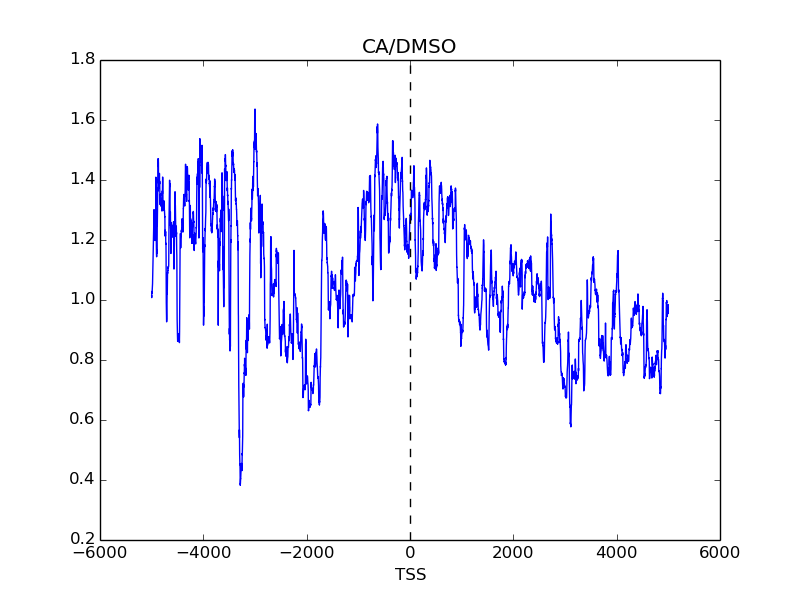
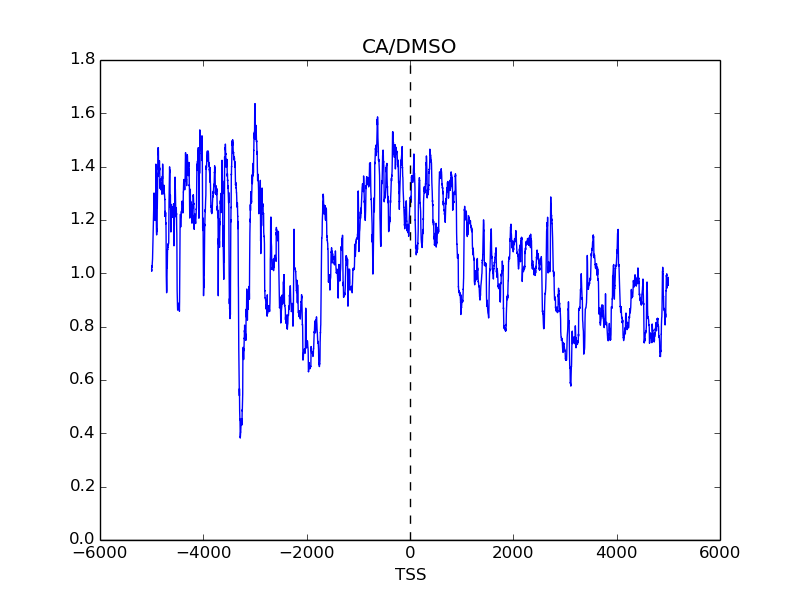
updates

diff --git a/src/metagene_TSS.py b/src/metagene_TSS.py
@@ -104,7 +104,7 @@ def run(file1,file2,file3):
     plt.plot(x,CAarray/DMSOarray)
     plt.xlabel('TSS')
     plt.axvline(x=0.,color='k',ls='dashed')
-    plt.axhline(y=0., color = 'k')
+    plt.axhline(y=1., color = 'k')
     plt.title("CA/DMSO")
     plt.savefig(figout + '/metagene_TSS_ratio.png')
     
